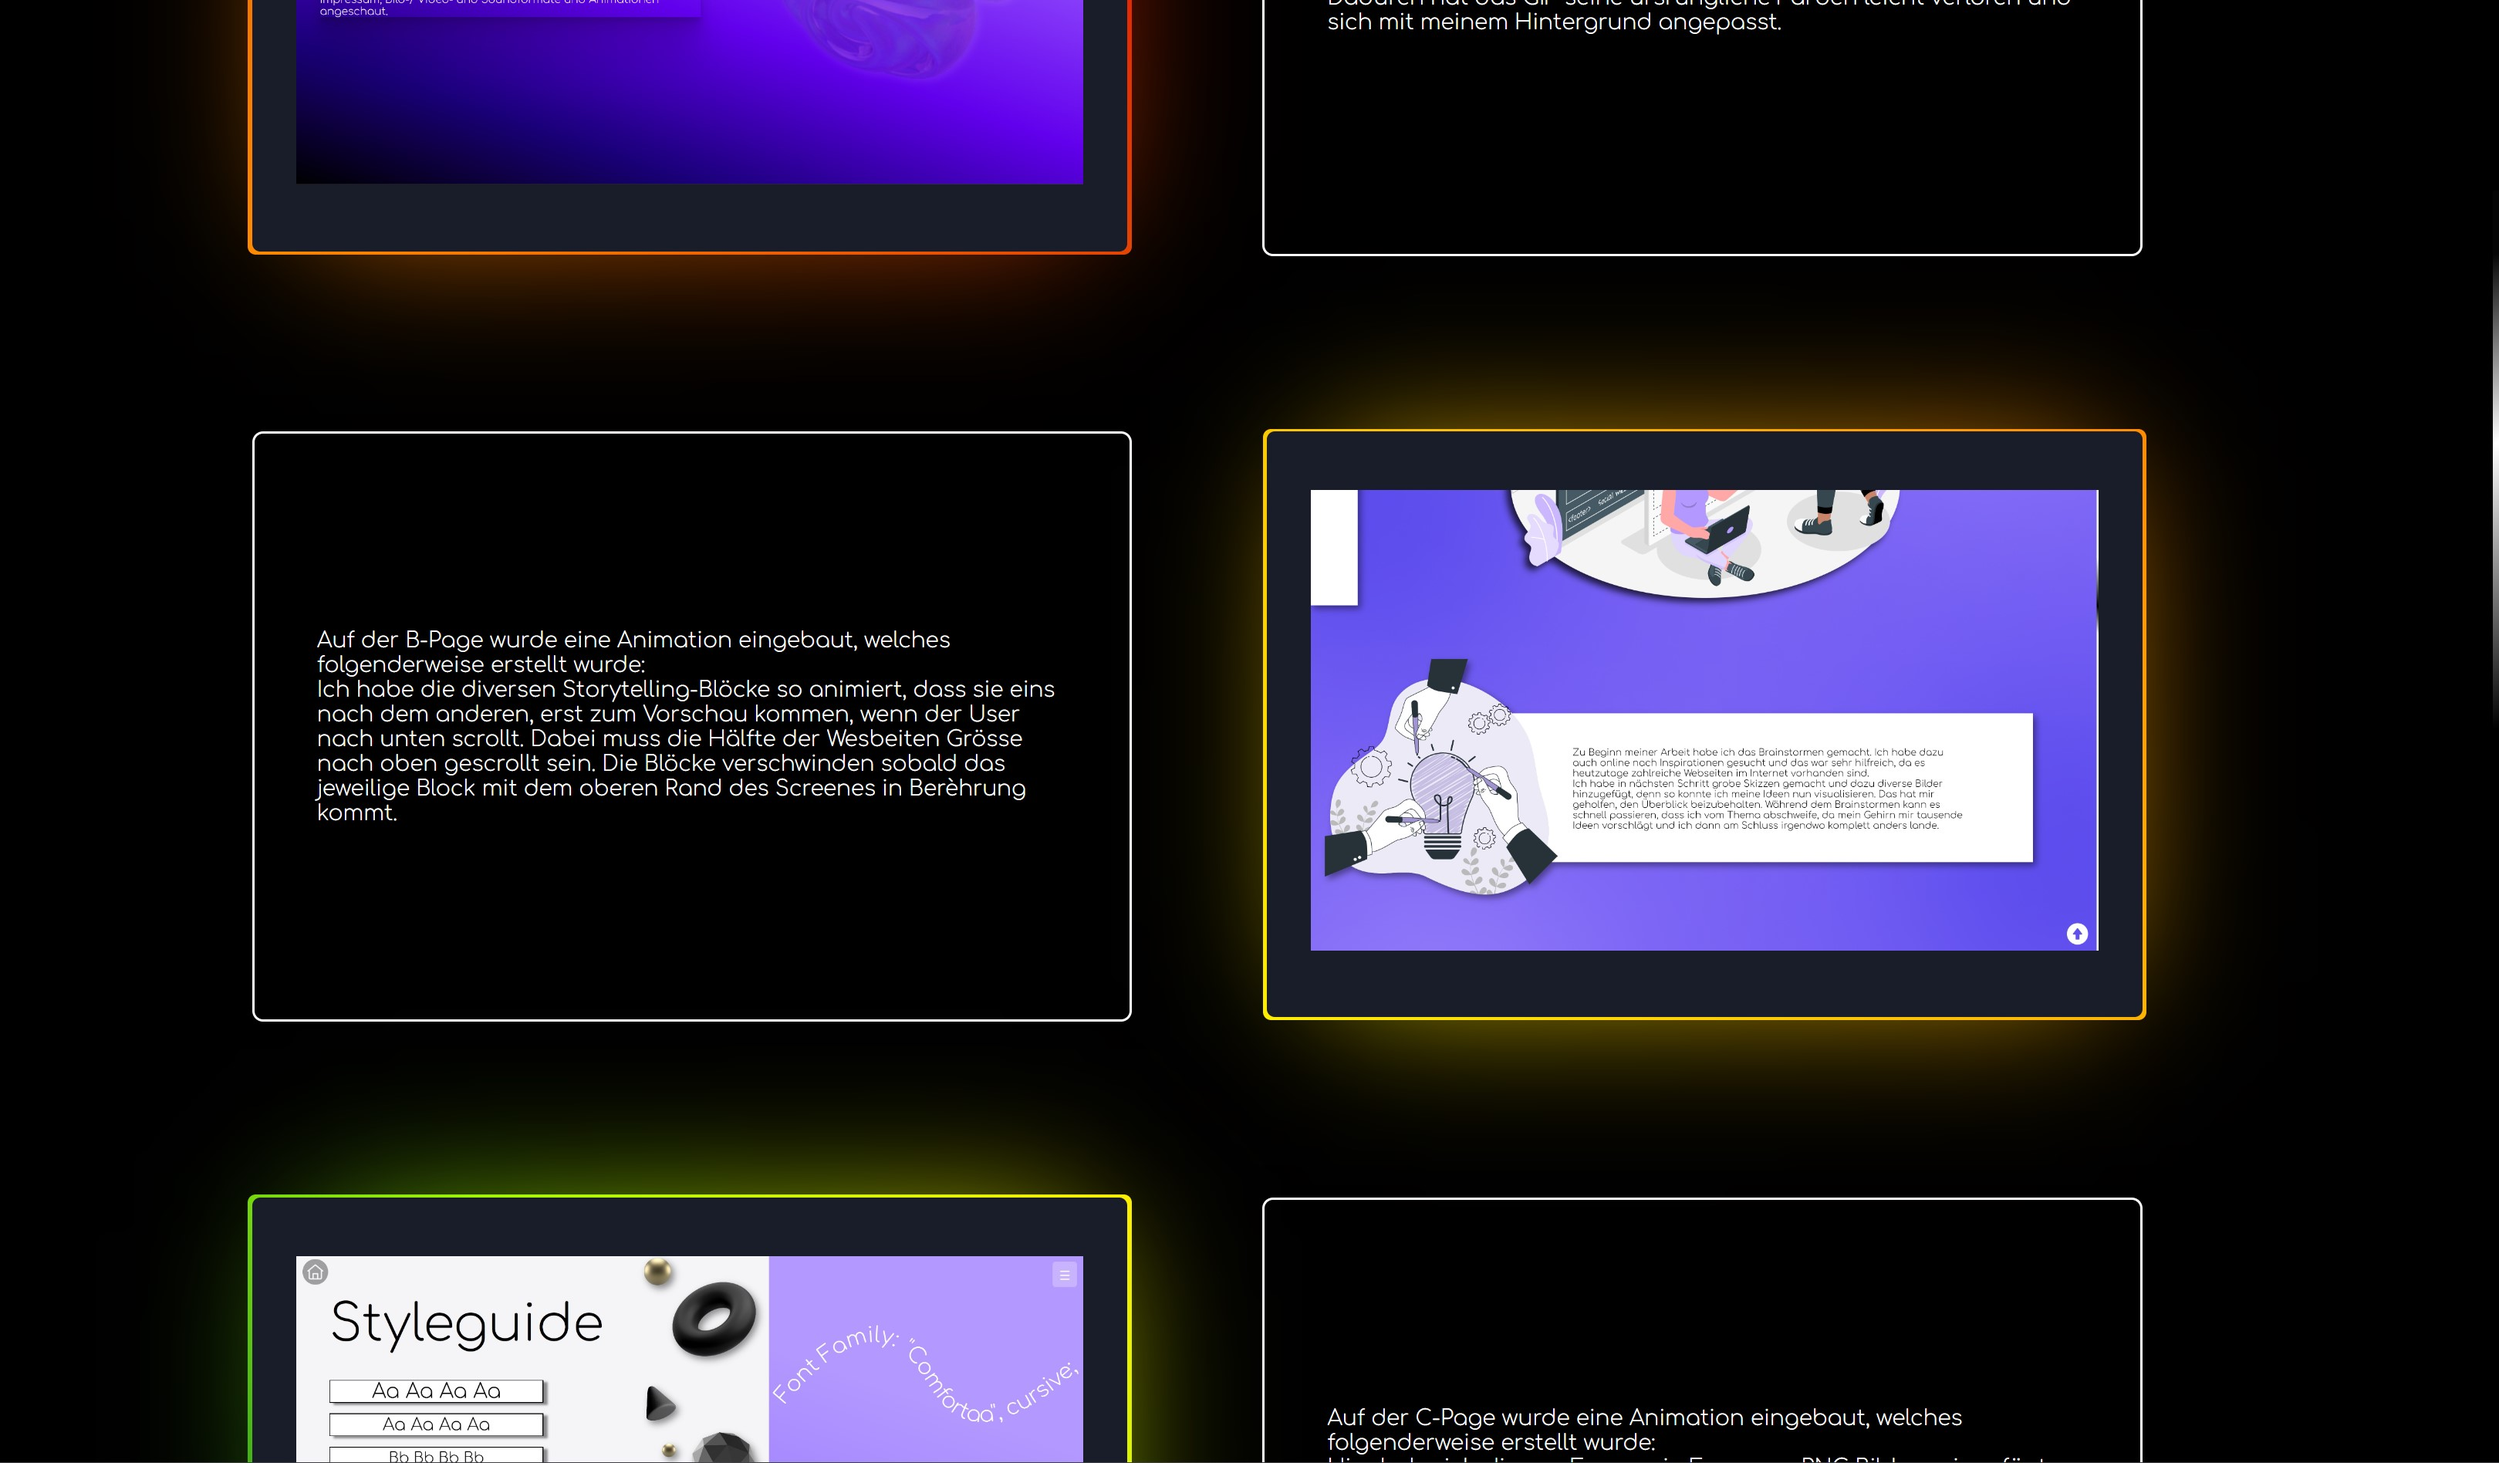
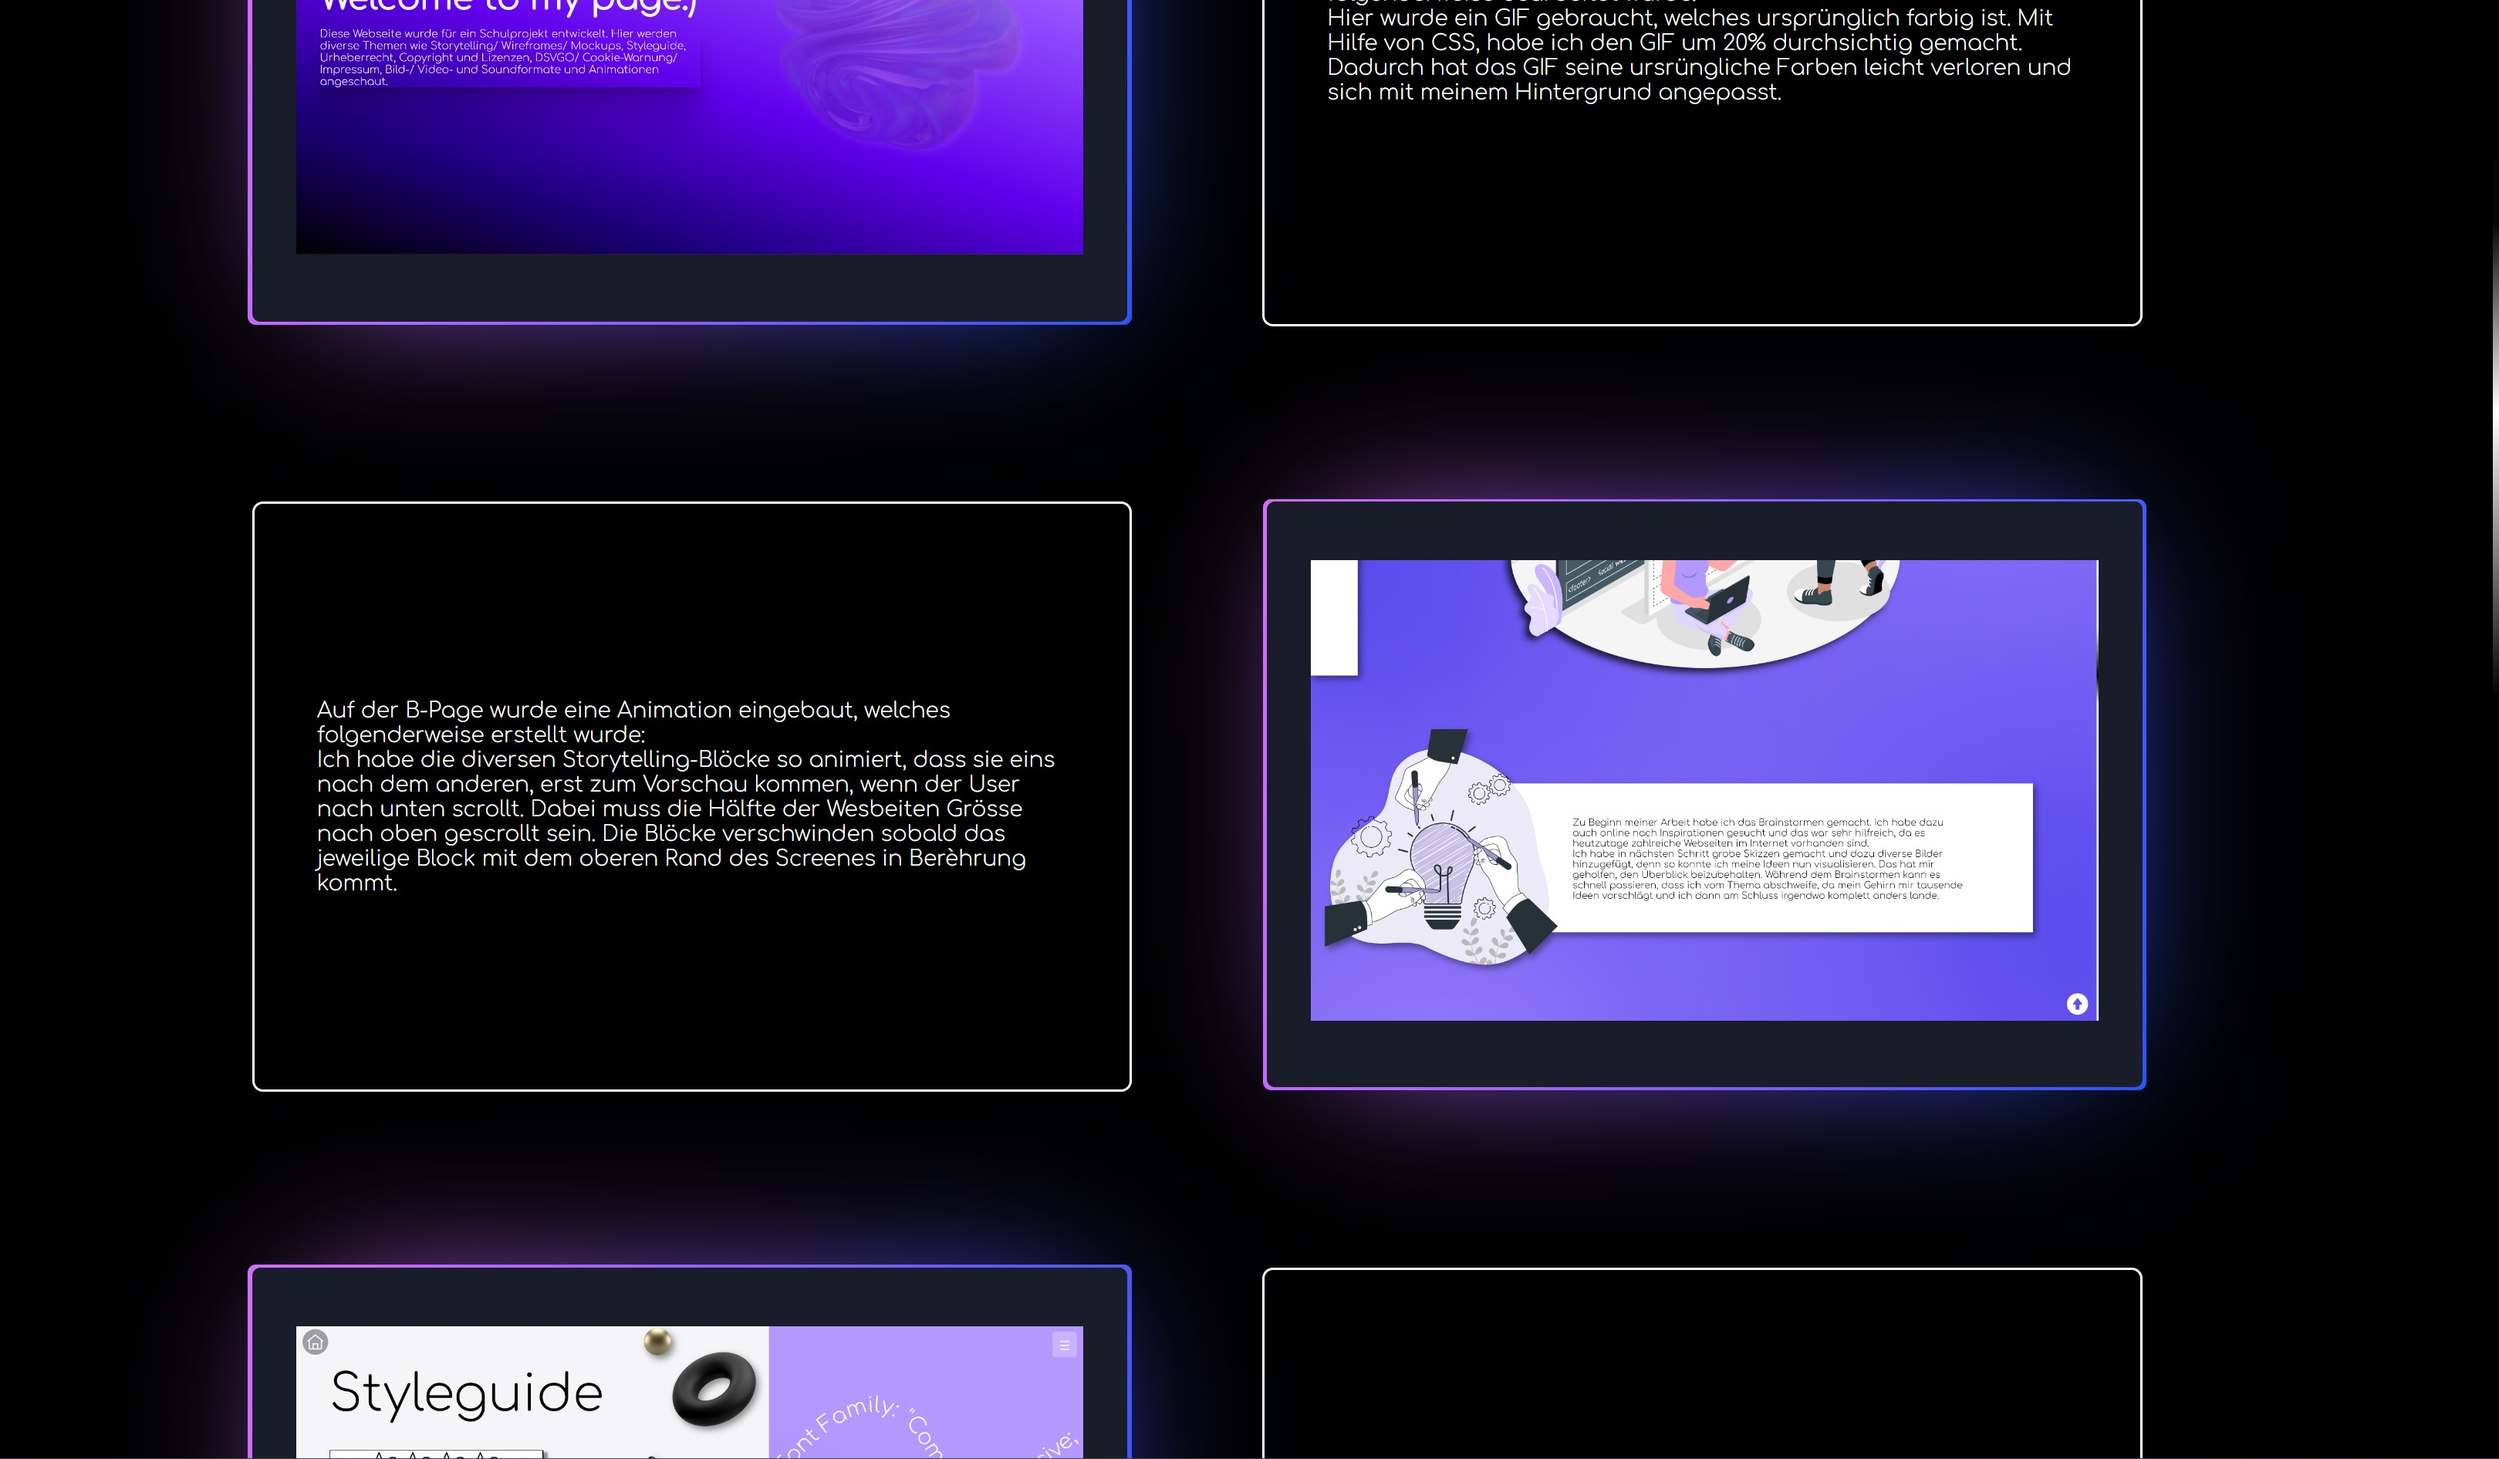
H style: color change

diff --git a/style/h.css b/style/h.css
@@ -86,9 +86,9 @@ html {
 .cardOne::after {
   background-image: linear-gradient(
     var(--rotate),
-    #e30303,
-    #e34a03 43%,
-    #ff8b00
+    #2a54f8,
+    #8160fc 43%,
+    #d86cff
   );
 }
 
@@ -96,9 +96,9 @@ html {
 .cardTwo::after {
   background-image: linear-gradient(
     var(--rotate),
-    #ff8b00,
-    #feb701 43%,
-    #feed01
+    #2a54f8,
+    #8160fc 43%,
+    #d86cff
   );
 }
 
@@ -106,9 +106,9 @@ html {
 .cardThree::after {
   background-image: linear-gradient(
     var(--rotate),
-    #feed01,
-    #acfe01 43%,
-    #008026
+    #2a54f8,
+    #8160fc 43%,
+    #d86cff
   );
 }
 
@@ -116,9 +116,9 @@ html {
 .cardFour::after {
   background-image: linear-gradient(
     var(--rotate),
-    #008026,
-    #00f8e4 43%,
-    #336eee
+    #2a54f8,
+    #8160fc 43%,
+    #d86cff
   );
 }
 
@@ -126,9 +126,9 @@ html {
 .cardFive::after {
   background-image: linear-gradient(
     var(--rotate),
-    #004dff,
-    #510686 43%,
-    #750686
+    #2a54f8,
+    #8160fc 43%,
+    #d86cff
   );
 }
 
